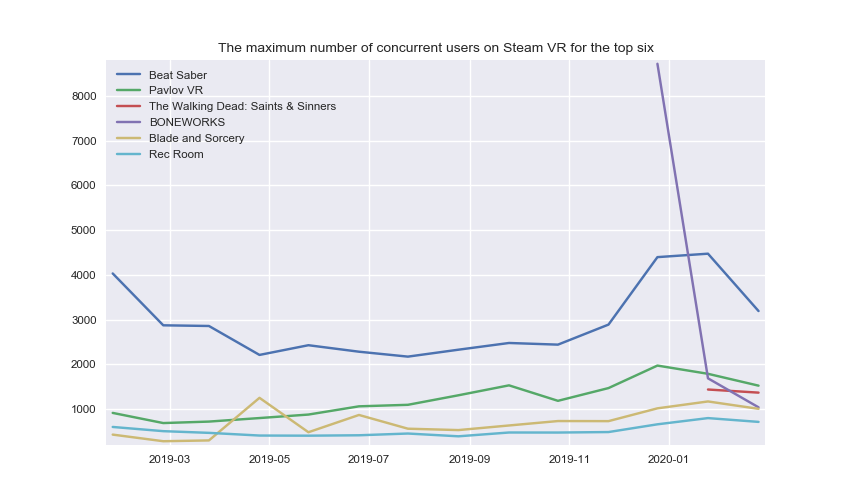
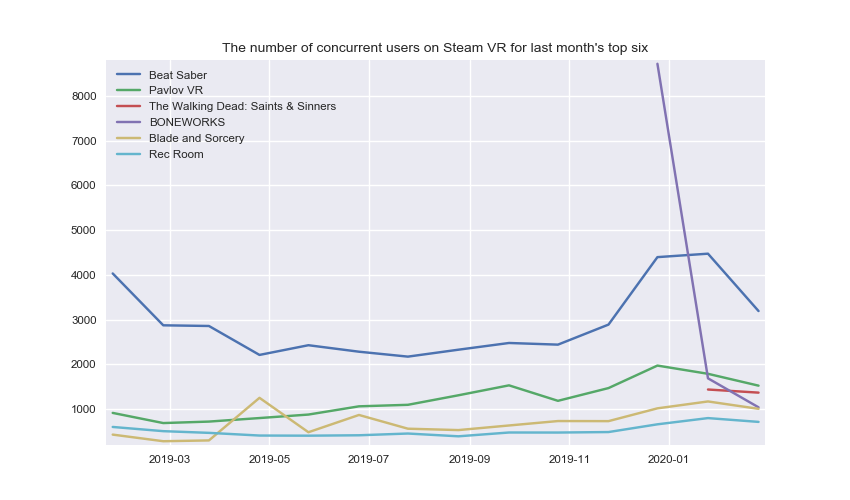
update

Changed region(s): [[0.2447, 0.09, 0.7647, 0.12]]

diff --git a/src/update_database.py b/src/update_database.py
@@ -75,7 +75,7 @@ def get_vrgames_players(appid):
                     players.append((appid, date, players_number))
                 time_stamp += step
     elif "Please do not crawl" in json_data["error"]:
-        tqdm.write("\nThe program is waiting 500 seconds because the website prevents web crawling")
+        tqdm.write("\nThe program is waiting 400 seconds because the website prevents web crawling")
         time.sleep(400)   # The website prevents fast web crawling, therefore the waiting time.
         get_vrgames_players(appid)
     return players

diff --git a/src/create_charts.py b/src/create_charts.py
@@ -183,7 +183,7 @@ def main():
     plt.savefig('../images/avg_peak_over_time.png')
 
     plt.subplots()
-    chart_title = "The maximum number of concurrent users on Steam VR for the top six"
+    chart_title = "The number of concurrent users on Steam VR for last month's top six"
     first_day = first_day_previous_month()
     sql = sql_top10_previous_month(first_day)
     for appid, name, *_ in sql[:6]:
